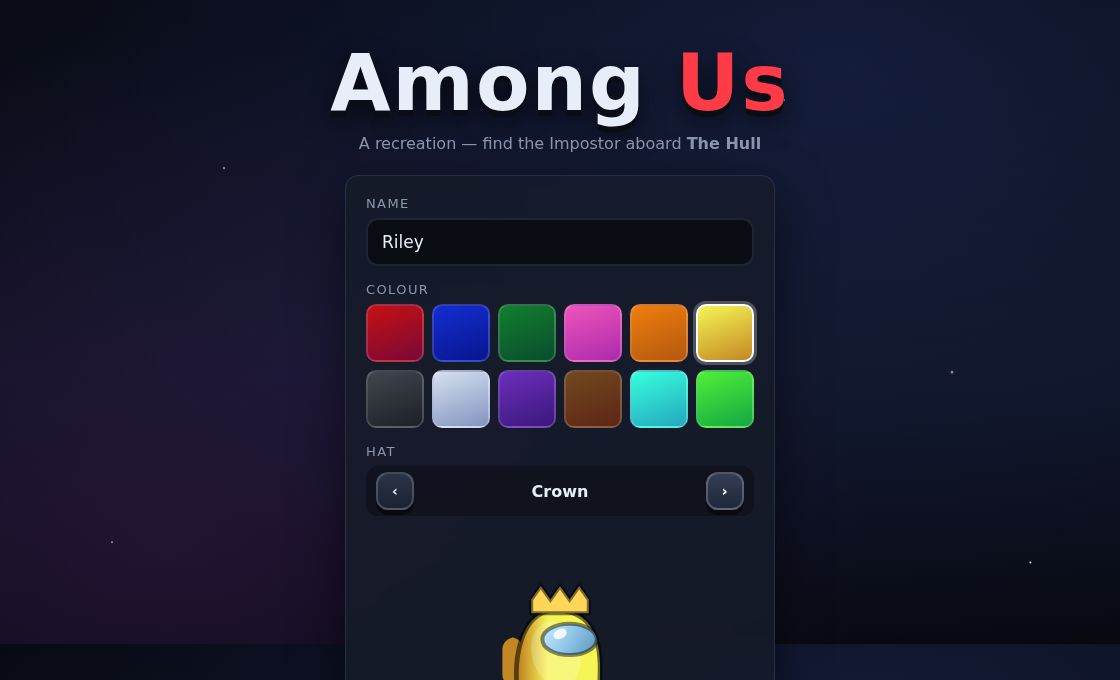
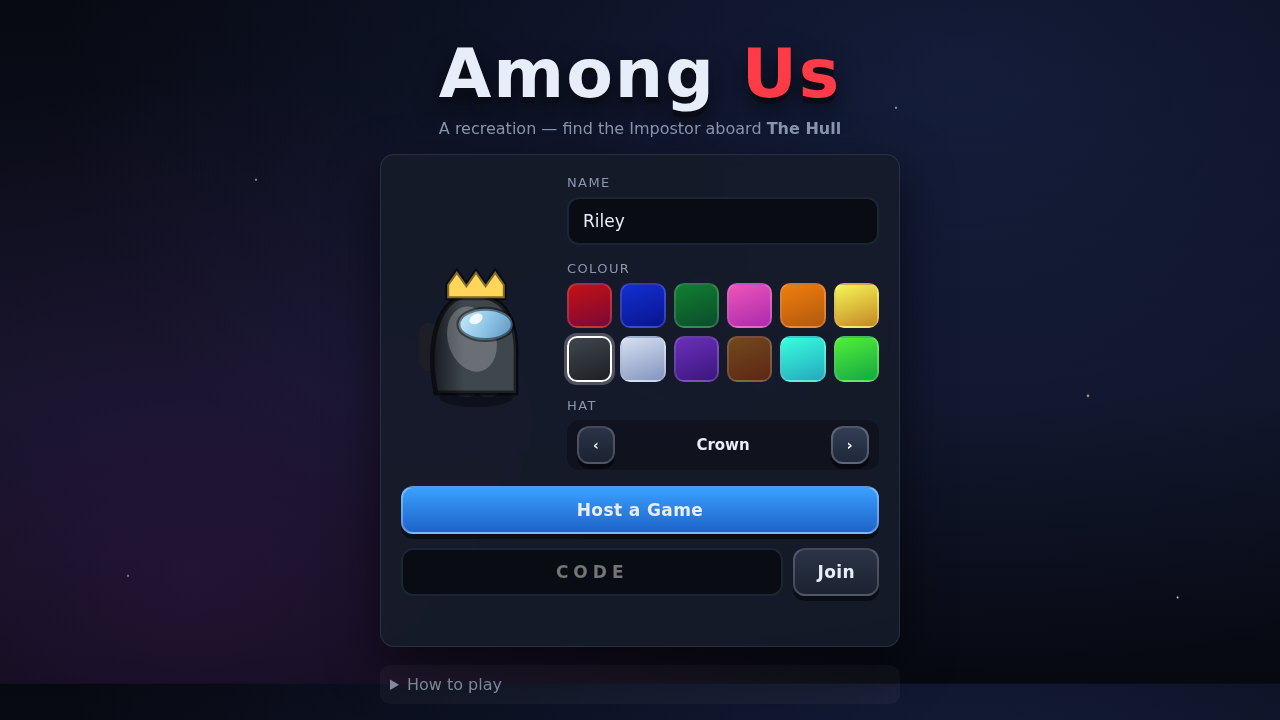
Fit the whole main menu on one screen
The hat picker pushed "Host a Game" below the fold. The identity block is now
two columns (preview beside name/colour/hat) and shrinks rather than stacking
on phones, so both the host and join controls stay visible at 390x664 and up.

Claude-Session: https://claude.ai/code/session_01E4YMaLBMtMbNBxehC4iCWX

diff --git a/public/css/style.css b/public/css/style.css
@@ -104,16 +104,16 @@ input:focus { border-color: var(--accent); }
   padding: 28px 16px 40px;
 }
 .logo {
-  font-size: clamp(42px, 9vw, 78px);
-  margin: 10px 0 0;
+  font-size: clamp(38px, 8vw, 68px);
+  margin: 6px 0 0;
   letter-spacing: 2px;
   text-shadow: 0 6px 0 #0a0d16, 0 10px 26px rgba(0, 0, 0, 0.7);
 }
 .logo-us { color: var(--danger); }
-.tagline { color: var(--muted); margin: 6px 0 22px; text-align: center; }
+.tagline { color: var(--muted); margin: 6px 0 16px; text-align: center; }
 
 .panel {
-  width: min(430px, 100%);
+  width: min(520px, 100%);
   background: var(--panel);
   border: 1px solid var(--panel-line);
   border-radius: var(--radius);
@@ -141,17 +141,32 @@ input:focus { border-color: var(--accent); }
   background: linear-gradient(45deg, transparent 44%, #fff 44%, #fff 56%, transparent 56%);
 }
 
+.identity { display: grid; grid-template-columns: 150px minmax(0, 1fr); gap: 16px; align-items: center; }
+.identity-fields { min-width: 0; }
+.field-last { margin-bottom: 0; }
 .hat-row { display: flex; align-items: center; justify-content: space-between; gap: 10px; background: rgba(0,0,0,0.25); border-radius: 12px; padding: 6px 10px; }
-.hat-row span { font-weight: 700; }
-.preview-row { display: flex; justify-content: center; margin: 4px 0 14px; }
+.hat-row span { font-weight: 700; font-size: 15px; }
+.preview-row { display: flex; justify-content: center; }
+@media (max-width: 520px) {
+  /* keep the two-column identity block, just smaller, so "Host a Game" stays
+     above the fold on a phone */
+  .identity { grid-template-columns: 96px minmax(0, 1fr); gap: 12px; }
+  #preview { width: 96px; height: 122px; }
+  .logo { font-size: 36px; }
+  .tagline { margin: 4px 0 10px; font-size: 13px; }
+  .menu-inner { padding: 16px 12px 28px; }
+  .panel { padding: 14px; }
+  .color-grid { gap: 6px; }
+  .field { margin-bottom: 12px; }
+}
 #preview { image-rendering: auto; }
 
 .join-row { display: flex; gap: 10px; margin-top: 14px; }
 .join-row input { text-transform: uppercase; letter-spacing: 5px; font-weight: 700; text-align: center; }
-#btn-create { width: 100%; margin-top: 4px; }
+#btn-create { width: 100%; margin-top: 16px; }
 .error { color: var(--danger); min-height: 20px; margin: 10px 0 0; font-size: 14px; text-align: center; }
 
-.howto { width: min(430px, 100%); margin-top: 18px; color: var(--muted); }
+.howto { width: min(520px, 100%); margin-top: 18px; color: var(--muted); }
 .howto summary { cursor: pointer; padding: 10px; border-radius: 10px; background: rgba(255,255,255,0.04); }
 .howto-body { padding: 10px 14px; font-size: 14px; line-height: 1.6; }
 .howto-body ul { padding-left: 18px; }

diff --git a/public/index.html b/public/index.html
@@ -19,27 +19,30 @@
       <p class="tagline">A recreation &mdash; find the Impostor aboard <b>The Hull</b></p>
 
       <div class="panel">
-        <label class="field">
-          <span>Name</span>
-          <input id="input-name" maxlength="12" placeholder="Crewmate" autocomplete="off" />
-        </label>
-
-        <div class="field">
-          <span>Colour</span>
-          <div id="color-grid" class="color-grid"></div>
-        </div>
-
-        <div class="field">
-          <span>Hat</span>
-          <div id="hat-row" class="hat-row">
-            <button class="btn btn-small" data-dir="-1" type="button">‹</button>
-            <span id="hat-name">No Hat</span>
-            <button class="btn btn-small" data-dir="1" type="button">›</button>
+        <div class="identity">
+          <div class="preview-row">
+            <canvas id="preview" width="150" height="190"></canvas>
           </div>
-        </div>
+          <div class="identity-fields">
+            <label class="field">
+              <span>Name</span>
+              <input id="input-name" maxlength="12" placeholder="Crewmate" autocomplete="off" />
+            </label>
 
-        <div class="preview-row">
-          <canvas id="preview" width="180" height="210"></canvas>
+            <div class="field">
+              <span>Colour</span>
+              <div id="color-grid" class="color-grid"></div>
+            </div>
+
+            <div class="field field-last">
+              <span>Hat</span>
+              <div id="hat-row" class="hat-row">
+                <button class="btn btn-small" data-dir="-1" type="button">‹</button>
+                <span id="hat-name">No Hat</span>
+                <button class="btn btn-small" data-dir="1" type="button">›</button>
+              </div>
+            </div>
+          </div>
         </div>
 
         <button id="btn-create" class="btn btn-primary">Host a Game</button>
